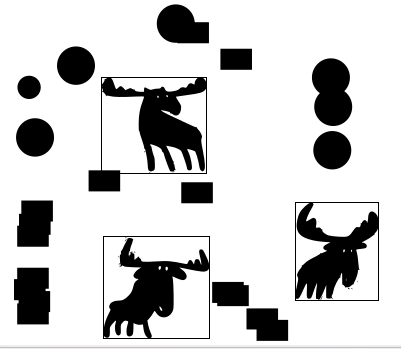
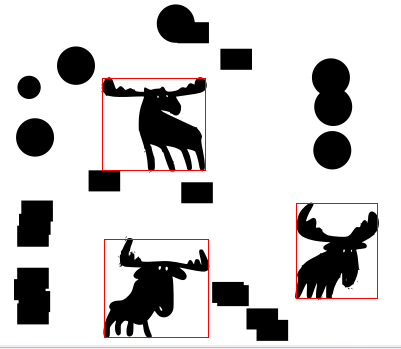
small refactoring

diff --git a/src/MooseHighlighter.java b/src/MooseHighlighter.java
@@ -4,38 +4,41 @@ import javax.imageio.ImageIO;
 import java.awt.*;
 import java.awt.image.BufferedImage;
 import java.io.File;
+import java.io.FileWriter;
 import java.io.IOException;
 import java.util.ArrayList;
 import java.util.List;
+import java.util.Stack;
 import java.util.stream.Collectors;
 
 public class MooseHighlighter {
 
-    class Square implements  Comparable{
+    class Square implements Comparable {
         int maxX;
         int minX;
         int maxY;
         int minY;
+        int realArea;
 
-        public Square(int maxX, int minX, int maxY, int minY) {
+        public Square(int maxX, int minX, int maxY, int minY, int realArea) {
             this.maxX = maxX;
             this.minX = minX;
             this.maxY = maxY;
             this.minY = minY;
+            this.realArea = realArea;
         }
 
-        public int calculateArea() {
-            return (maxX-minX)*(maxY-minY);
+        public int calculateSquareArea() {
+            return (maxX - minX) * (maxY - minY);
         }
 
-        public boolean intersect(int x,int y){
-            boolean result=false;
-            if(x>=minX&&x<=maxX&&y<=maxY&&y>=minY){
+        public boolean intersect(int x, int y) {
+            boolean result = false;
+            if (x >= minX && x <= maxX && y <= maxY && y >= minY) {
                 return true;
             }
             return result;
         }
-
 
 
         @Override
@@ -45,65 +48,72 @@ public class MooseHighlighter {
                     ", minX=" + minX +
                     ", maxY=" + maxY +
                     ", minY=" + minY +
-                    "} area= "+calculateArea();
+                    ", realArea=" + realArea + " sq "+ calculateSquareArea()+
+                    " cor "+getCorelation();
         }
 
         @Override
         public int compareTo(Object o) {
-            return calculateArea()-((Square) o).calculateArea();
+            return Double.compare(getCorelation(),((Square)o).getCorelation());
+        }
+
+        public double getCorelation(){
+            return ((double)realArea/ calculateSquareArea());
         }
     }
 
 
-    private BufferedImage img ;
+    private BufferedImage img;
 
 
     private int minX;
     private int minY;
 
+    int area;
+    private final int BLACK = -16777216;
     private int maxX;
     private int maxY;
 
-    private List<Square> squares=null;
+    private List<Square> squares = null;
 
-    private boolean [][] binaryMatrixOfMoosesPixels;
-    private boolean [][] storyMatrix;
+    private boolean[][] binaryMatrixOfMoosesPixels;
+    private boolean[][] storyMatrix;
 
-    public MooseHighlighter(String path){
+    public MooseHighlighter(String path) {
         try {
             img = ImageIO.read(new File(path));
         } catch (IOException e) {
             e.printStackTrace();
         }
 
-        squares=new ArrayList<Square>();
-        binaryMatrixOfMoosesPixels =new boolean[img.getWidth()][img.getHeight()];
+        squares = new ArrayList<Square>();
+        binaryMatrixOfMoosesPixels = new boolean[img.getWidth()][img.getHeight()];
         storyMatrix = new boolean[img.getWidth()][img.getHeight()];
         initMatrixes();
     }
 
     private void initMatrixes() {
-        for(int x=0;x<img.getWidth();x++){
-            for(int y=0;y<img.getHeight();y++) {
-                if(img.getRGB(x,y)==-1){ //isWhite
-                    binaryMatrixOfMoosesPixels[x][y]=false;
-                }
-                else binaryMatrixOfMoosesPixels[x][y]=true;
+        for (int x = 0; x < img.getWidth(); x++) {
+            for (int y = 0; y < img.getHeight(); y++) {
+                if (img.getRGB(x, y) == BLACK) { //isWhite
+                    binaryMatrixOfMoosesPixels[x][y] = true;
+                } else binaryMatrixOfMoosesPixels[x][y] = false;
 
-                storyMatrix[x][y]=false;
+                storyMatrix[x][y] = false;
             }
         }
 
     }
 
-    public void searchMoose(){
-        for(int x=0;x<img.getWidth();x++) {
+    public void searchMoose() {
+        for (int x = 0; x < img.getWidth(); x++) {
             for (int y = 0; y < img.getHeight(); y++) {
                 if (binaryMatrixOfMoosesPixels[x][y]) {
                     if (squares.isEmpty()) {
                         resetCounters();
                         search(x, y);
-                        squares.add(new Square(maxX, minX, maxY, minY));
+                        storyMatrix[x][y]=true;
+                        squares.add(new Square(maxX, minX, maxY, minY,area));
                     } else {
                         boolean allow = true;
                         for (Square sftp : squares) {
@@ -114,23 +124,24 @@ public class MooseHighlighter {
                         if (allow) {
                             resetCounters();
                             search(x, y);
-                            squares.add(new Square(maxX, minX, maxY, minY));
+                            storyMatrix[x][y]=true;
+                            squares.add(new Square(maxX, minX, maxY, minY,area));
                         }
                     }
                 }
             }
         }
 
-        }
+    }
 
-    private int classificationFilter() {
-        int maxDiff=0;
-        int filter=0;
-        for (int i=1;i<squares.size();i++) {
-            int temp = Math.abs(squares.get(i - 1).calculateArea() - squares.get(i).calculateArea());
+    private double classificationFilter() {
+        double maxDiff = 0;
+        double filter = 0;
+        for (int i = 1; i < squares.size(); i++) {
+            double temp = Math.abs(squares.get(i-1).getCorelation()-squares.get(i).getCorelation());
             if (maxDiff < temp) {
                 maxDiff = temp;
-                filter = squares.get(i - 1).calculateArea();
+                filter = squares.get(i).getCorelation();
             }
         }
         return filter;
@@ -138,53 +149,103 @@ public class MooseHighlighter {
 
 
     public void drawNewPicture() throws IOException {
-        squares=squares.stream().sorted().collect(Collectors.toList());
-        squares=squares.stream().filter(x->x.calculateArea()>classificationFilter()).collect(Collectors.toList());
+        squares = squares.stream().filter(x->x.getCorelation()<1).sorted().collect(Collectors.toList());
+        squares = squares.stream().filter(x -> x.getCorelation() < classificationFilter()).collect(Collectors.toList());
         Graphics graphics = img.getGraphics();
-        graphics.setColor(new Color(1));
-        for ( Square square: squares
-             ) {
+        graphics.setColor(new Color(Color.RED.getRGB()));
+        for (Square square : squares
+                ) {
 
-            graphics.drawRect(square.minX,square.minY,square.maxX-square.minX,square.maxY-square.minY);
+            graphics.drawRect(square.minX, square.minY, square.maxX - square.minX, square.maxY - square.minY);
         }
         ImageIO.write(img, "PNG", new File("result.png"));
     }
 
 
-    //looking for square in which figures could be inscribed
-    private void search(int x,int y){
-        if(x>=0&&x<img.getWidth()&&y>=0&&y<img.getHeight()){//ArrayOutOfIndexException possible
-            if(binaryMatrixOfMoosesPixels[x][y]) { //is black
-                if (!storyMatrix[x][y]) { // and wasn't written at storyMatrix yet
-                    if (binaryMatrixOfMoosesPixels[x][y]) {
-                        if (x > maxX) {
-                            maxX = x;
+    class Point {
+        int x;
+        int y;
+
+        public Point(int x, int y) {
+            this.x = x;
+            this.y = y;
+        }
+
+        public int getX() {
+            return this.x;
+        }
+
+        public void setX(int x) {
+            x = x;
+        }
+
+        public int getY() {
+            return y;
+        }
+
+        public void setY(int y) {
+            y = y;
+        }
+
+        @Override
+        public String toString() {
+            return "Point{" +
+                    "x=" + x +
+                    ", y=" + y +
+                    '}';
+        }
+    }
+
+
+    private boolean isValidPoint(int x, int y) {
+        boolean result = false;
+        if (x >= 0 && x < img.getWidth() && y >= 0 && y < img.getHeight()) {
+            result = true;
+        }
+        return result;
+    }
+
+    //counting area
+    private void search(int x, int y) {
+        Stack<Point> stack = new Stack<Point>();
+        stack.push( new Point(x,y));
+        while (!stack.empty()) {
+            Point point= stack.firstElement();
+            stack.removeElement(point);
+            if (isValidPoint(point.x, point.y)) {//ArrayOutOfIndexException possible
+                if (binaryMatrixOfMoosesPixels[point.x][point.y]) { //is black
+                    if (!storyMatrix[point.x][point.y]) { // and wasn't written at storyMatrix yet
+                        if (point.x > maxX) {
+                            maxX = point.x;
                         }
-                        if (x < minX) {
-                            minX = x;
+                        if (point.x < minX) {
+                            minX = point.x;
                         }
-                        if (y > maxY) {
-                            maxY = y;
+                        if (point.y > maxY) {
+                            maxY = point.y;
                         }
-                        if (y < minY) {
-                            minY = y;
+                        if (point.y < minY) {
+                            minY = point.y;
                         }
+                        area++;
+                        storyMatrix[point.x][point.y] = true;
+                        stack.push(new Point(point.x + 1, point.y));//up
+                        stack.push(new Point(point.x - 1, point.y));//down
+                        stack.push(new Point(point.x, point.y + 1));//right
+                        stack.push(new Point(point.x, point.y - 1));//left
                     }
-                    storyMatrix[x][y] = true;
-                    search(x,y+1);//up
-                    search(x,y-1);//down
-                    search(x+1,y);//right
-                    search(x-1,y);//left
                 }
             }
         }
-        else return;
     }
 
-    public void resetCounters(){
-        minX=img.getHeight();
-        maxX=0;
+    //looking for square in which figures could be inscribed
 
+
+    public void resetCounters(){
+        minX=img.getWidth();
+        maxX=0;
+        area=0;
         maxY=0;
         minY=img.getHeight();
     }
